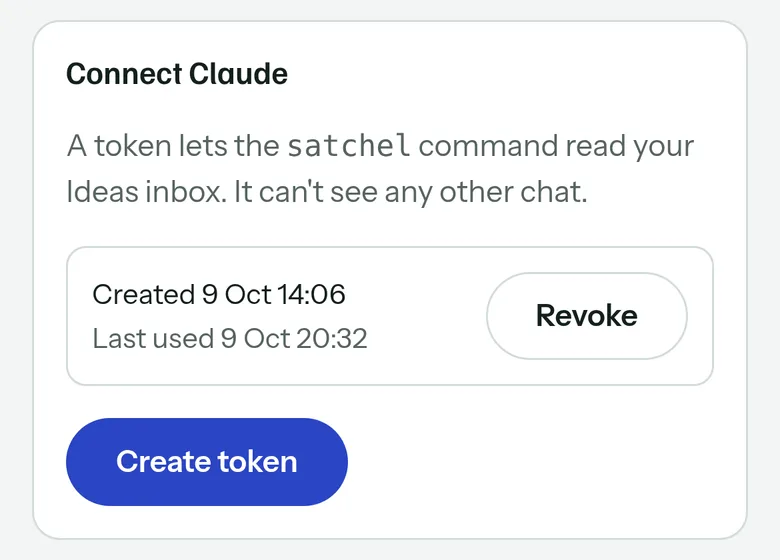
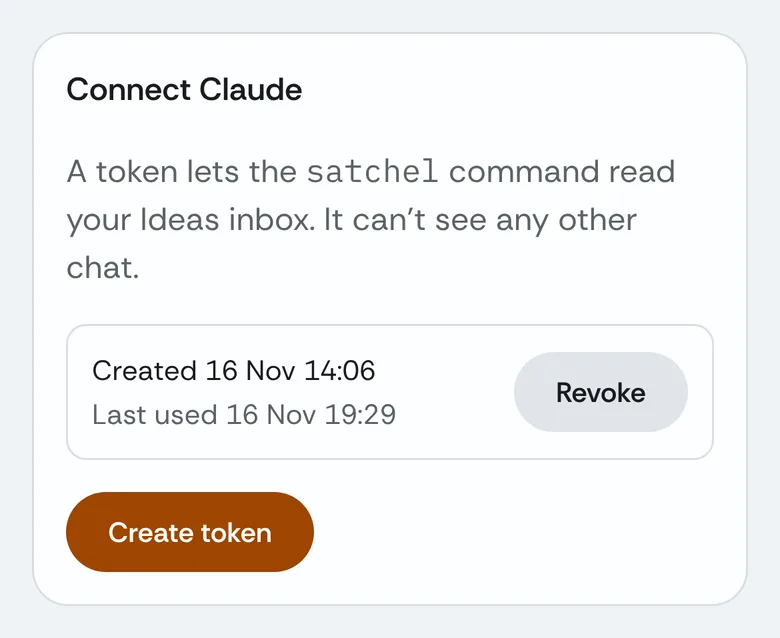
Refresh the README, docs and screenshots after the redesign
All six README images are retaken on the Clay on graphite design (they
showed the old blue one of 2026-10-09), from the demo seed with a local
owner account instead of Ward. The desktop shot is now 1440x900 @2x.

- README: "Run it locally" adds the .env step with PUBLIC_ORIGIN and the
  seed command; without them `npm run dev` stops on "PUBLIC_ORIGIN is not
  set". Status names the redesign. New alt texts, the `satchel unread`
  sample re-run, `vendor/` in the layout, a link to web/DESIGN.md.
- docs/getting-started.md: the .env step, three missing env vars
  (SATCHEL_API_PREFIX, SATCHEL_BASE, AUTH_TRUSTED_PROXIES), `npm run
  check` and the other gate commands, the Playwright specs, and how to run
  the two dev halves on other ports.
- docs/architecture.md and docs/README.md: links to the design docs.
- docs/images/shots.md: how the new images were made (Playwright, local
  account, the server clock moved to the evening), taken 2026-11-16.

Claude-Session: https://claude.ai/code/session_01RnCo6KceG18CeLXhzKq2En

diff --git a/README.md b/README.md
@@ -3,7 +3,7 @@
 Satchel is a small text messenger for its owner and a few friends. Its first chat, the Ideas inbox, is with Claude. The owner writes ideas there from a phone, and Claude Code reads them later at home through the `satchel` command.
 
 <p align="center">
-  <img src="docs/images/ideas-inbox.webp" width="300" alt="Phone screen of the Ideas inbox: five ideas in blue bubbles, the first three with double ticks and a 'Seen 21:10' line under the third, the two from today with single ticks">
+  <img src="docs/images/ideas-inbox.webp" width="300" alt="Phone screen of the Ideas inbox: five ideas in clay-coloured bubbles, the first three with double ticks and a 'Seen 21:10' line under the third, the two from today with single ticks">
 </p>
 
 At home, Claude runs the CLI and gets only what it hasn't read yet:
@@ -12,8 +12,8 @@ At home, Claude runs the CLI and gets only what it hasn't read yet:
 $ satchel unread
 Ideas inbox · 2 unread · seen up to #10
 
-#11  2026-10-09 08:31  About the backup script: compare file sizes first and only hash when two sizes match. Much faster.
-#12  2026-10-09 12:05  Small one: a "leave by" reminder that checks the tram times, not just the clock.
+#11  2026-11-16 08:31  About the backup script: compare file sizes first and only hash when two sizes match. Much faster.
+#12  2026-11-16 12:05  Small one: a "leave by" reminder that checks the tram times, not just the clock.
 
 Oldest first. Later messages can correct earlier ones. Gaps in numbers are normal.
 When you have read them all, run:  satchel seen 12
@@ -21,7 +21,7 @@ $ satchel seen 12
 Seen up to #12.
 ```
 
-**Status:** Personal project, built but not deployed yet. Built: the Ideas inbox, the `satchel` CLI, Ward sign-in, friend chats, live updates, push notifications, the Android share target and Claude's replies. Push was tried end to end in headless Chrome only; iPhone push, the share target and replies on a phone are untested.
+**Status:** Personal project, built but not deployed yet. Built: the Ideas inbox, the `satchel` CLI, local accounts with "Sign in with Ward" as an option, friend chats, live updates, push notifications, the Android share target and Claude's replies. The web app was redesigned on 2026-11-13 ("Clay on graphite"), and that is not deployed either. Push was tried end to end in headless Chrome only; iPhone push, the share target and replies on a phone are untested.
 
 ## What it does
 
@@ -38,17 +38,17 @@ A notes app would hold the ideas too. Satchel adds an exact read marker, so Clau
 
 | The chat list | A group with friends | Sending an idea |
 |---|---|---|
-| <img src="docs/images/chat-list.webp" width="250" alt="Chat list with the Ideas inbox pinned first, then Ana with two unread messages, the Weekend hike group and Theo"> | <img src="docs/images/group-chat.webp" width="250" alt="The Weekend hike group: messages from Maya, Theo and Ana, a note that Claude has no access to this chat, and 'Seen by Maya, Theo' under the last message"> | <img src="docs/images/send-and-seen.gif" width="250" alt="Typing an idea in the Ideas inbox and sending it: it gets one tick, then the Seen line moves under it once Claude marks it seen"> |
+| <img src="docs/images/chat-list.webp" width="250" alt="Chat list with the Ideas inbox pinned first, then Ana with two unread messages, the Weekend hike group and Theo"> | <img src="docs/images/group-chat.webp" width="250" alt="The Weekend hike group: messages from Maya, Theo and Ana over three days, and 'Seen by Maya, Theo' under the last message"> | <img src="docs/images/send-and-seen.gif" width="250" alt="Typing an idea in the Ideas inbox and sending it: it gets one tick, then the Seen line moves under it once Claude marks it seen"> |
 
 In the GIF, the owner sends an idea and it gets one tick. Claude then runs `satchel seen` at home, and the "Seen" line moves under the new idea without a reload.
 
 The owner creates the Claude token in Settings and can revoke it there:
 
-<img src="docs/images/connect-claude.webp" width="390" alt="The Connect Claude card: a token created on 9 Oct, when it was last used, a Revoke button and a Create token button">
+<img src="docs/images/connect-claude.webp" width="390" alt="The Connect Claude card: one token with the times it was created and last used, a Revoke button and a Create token button">
 
-On a laptop the chat list and the open chat sit side by side:
+From 900 px wide, a side rail, the chat list and the open chat sit side by side:
 
-<img src="docs/images/desktop.webp" width="100%" alt="Desktop layout: the chat list on the left, the Weekend hike group open on the right">
+<img src="docs/images/desktop.webp" width="100%" alt="Desktop layout: the side rail and the chat list on the left, the Weekend hike group open on the right under a note that Claude has no access to this chat">
 
 ## How it works
 
@@ -66,14 +66,17 @@ More in [docs/architecture.md](docs/architecture.md).
 
 ## Run it locally
 
-Requires Node 24 or later. Satchel runs on its own local accounts; make one with `npm run seed -w @satchel/server`. "Sign in with Ward" is optional: it needs the local Ward container from `wzd_auth/infrastructure/local` on <http://localhost:8792>, whose seed registers Satchel as a client and fills the five `WARD_OIDC_` values in this repo's `.env`, so copy `.env.example` to `.env` before you run it.
+Requires Node 24 or later. Satchel signs people in with its own local accounts, so nothing else has to run.
 
 ```bash
 npm install
+cp .env.example .env
+echo 'PUBLIC_ORIGIN=http://localhost:5175' >> .env
+SEED_USERNAME=owner SEED_ROLE=admin npm run seed -w @satchel/server
 npm run dev
 ```
 
-Then open <http://localhost:5175/satchel/> and sign in with your local account or with Ward. The API listens on port 8807. Env vars, tests, push and the CLI against a local server are in [docs/getting-started.md](docs/getting-started.md).
+The seed asks for a password and makes the owner's account. Then open <http://localhost:5175/satchel/> and sign in as `owner`. The API listens on port 8807. Env vars, "Sign in with Ward", tests, push and the CLI against a local server are in [docs/getting-started.md](docs/getting-started.md).
 
 ## Deploy and setup
 
@@ -92,11 +95,13 @@ Deploying is a hand-run owner step through vps-deploy. These live in [docs/owner
 | `web/` | React PWA, at the root of `satchel.<domain>` in production and under `/satchel/` in local dev |
 | `cli/` | the `satchel` command and its guide |
 | `infrastructure/` | Dockerfile and compose file for the API container |
+| `vendor/` | a generated copy of the house style (lint, format and convention rules); `npm run house-style:sync` refreshes it |
 | `corpus/` | design wiki, decisions and the numbered briefs |
 
 ## Docs
 
 - [docs/](docs/README.md): setup, architecture, the owner's steps, and the images used here
+- [web/DESIGN.md](web/DESIGN.md): the look, "Clay on graphite": tokens, layout and the checks that hold them
 - [corpus/](corpus/index.md): the project wiki, with decisions, status and the briefs
 
 ## License

diff --git a/docs/images/shots.md b/docs/images/shots.md
@@ -1,40 +1,54 @@
 # README images
 
 How each image was made, so the next refresh is a re-run. Re-take an image
-when the screen it shows changes.
+when the screen it shows changes. All of them show the "Clay on graphite"
+redesign of 2026-11-13.
 
-All of them come from a throwaway clone running `npm run dev` against a
-scratch `DATA_DIR`, signed in as the owner through the local Ward container,
-and filled by [demo-seed.mjs](demo-seed.mjs). The friends, Maya, Theo and
-Ana, are made up and never sign in, so no real account or message appears. The
-seed backdates messages relative to the day it runs, so the times and dates
-in a new capture will differ.
+All of them come from `npm run dev`'s two halves, run against a scratch
+`DATA_DIR` on spare ports, signed in as a local `owner` account made with
+`npm run seed -w @satchel/server` (password from a random env var), and
+filled by [demo-seed.mjs](demo-seed.mjs). No Ward runs. The friends, Maya,
+Theo and Ana, are made up and never sign in, so no real account or message
+appears. The seed backdates messages relative to the day it runs, so the
+dates in a new capture will differ.
+
+The seed's messages for today run until 14:06. Capture in the evening, or the
+GIF's new idea gets an earlier time than the ideas above it. On 2026-11-16
+the shots were taken in the morning, so the API ran with its clock moved to
+19:28 local time by a scratch `node --import` file that offsets `Date` (passed
+through `NODE_OPTIONS`; it is not in the repo). The browser and the CLI ran
+on the real clock.
 
 | File | Shows | How to reach that state | Viewport | Taken |
 |---|---|---|---|---|
-| ideas-inbox.webp | Ideas inbox, three ideas seen by Claude and two not | Fresh seed, open "Claude · Ideas inbox" | iPhone 14, 390×844 @3x, scaled to 780 px wide | 2026-10-09 |
-| chat-list.webp | Chat list: inbox pinned, an unread badge, a group, a seen direct chat | Fresh seed, `/satchel/` | iPhone 14, scaled to 780 px | 2026-10-09 |
-| group-chat.webp | The Weekend hike group with "Seen by Maya, Theo" | Fresh seed, open "Weekend hike" | iPhone 14, scaled to 780 px | 2026-10-09 |
-| send-and-seen.gif | Sending an idea, then "Seen" moving under it | After `satchel seen` on the seeded unread ideas, open the inbox, record, type and send, then run `satchel unread` and `satchel seen N` from the CLI | iPhone 14, 390 px GIF, 9.5 s | 2026-10-09 |
-| connect-claude.webp | The Connect Claude card with one token | `/satchel/settings` after the CLI has used the seeded token; cropped to the card | iPhone 14, card only, 780 px | 2026-10-09 |
-| desktop.webp | Two-pane layout with the Weekend hike group open | Fresh seed, open "Weekend hike" | 1280×800 @2x, scaled to 1600 px | 2026-10-09 |
+| ideas-inbox.webp | Ideas inbox, three ideas seen by Claude and two not | Fresh seed, open "Claude · Ideas inbox" | iPhone 14 at its full 390×844 screen, @3x, scaled to 780 px wide | 2026-11-16 |
+| chat-list.webp | Chat list: inbox pinned, an unread badge, a group, a seen direct chat | Fresh seed, `/satchel/` | same | 2026-11-16 |
+| group-chat.webp | The Weekend hike group with "Seen by Maya, Theo" | Fresh seed, open "Weekend hike" | same | 2026-11-16 |
+| desktop.webp | Rail, chat list and the Weekend hike group open | Fresh seed, open "Weekend hike" | 1440×900 @2x, 2880 px wide | 2026-11-16 |
+| send-and-seen.gif | Sending an idea, then "Seen" moving under it | After `satchel seen 12`, open the inbox, type and send "Idea: a shared packing list for the hike group.", then run `satchel unread` and `satchel seen 16` from the CLI | iPhone 14, 390 px GIF, 9.2 s | 2026-11-16 |
+| connect-claude.webp | The Connect Claude card with one token | `/satchel/settings` after the CLI has used the seeded token; clipped to the card plus 16 px | iPhone 14, card only, 780 px | 2026-11-16 |
 
 The `satchel unread` output in the README is real output from the same
 seeded database, taken before the GIF was recorded.
 
 ## Capture method
 
-- Browser: `agent-browser`, `set device "iPhone 14"` for phone shots and
-  `set viewport 1280 800 2` for the desktop one, then `screenshot` with an
-  absolute path.
+- Browser: Playwright's Chromium from a scratch script,
+  `devices['iPhone 14']` with the viewport set to the full 390×844 screen
+  (the installed PWA has no browser bar), time zone Europe/Bucharest,
+  locale en-GB, default (light) theme. Each shot waits for network idle and
+  1.5 s more. Sign in once through the form and reuse the storage state.
 - CLI: built `cli/dist/index.js` run by path with `SATCHEL_URL` set to the
-  local API and the seeded token in `SATCHEL_TOKEN`, and `HOME` pointed at
-  an empty folder so a real `~/.config/satchel/env` is never read.
+  local API, the seeded token in `SATCHEL_TOKEN`, `TZ=Europe/Bucharest`, and
+  `HOME` pointed at an empty folder so a real `~/.config/satchel/env` is
+  never read.
 - Stills: PNG to WebP with
-  `ffmpeg -i in.png -vf scale=780:-1 -c:v libwebp -quality 82 out.webp`.
-- GIF: `record start` / `record stop` gives a WebM that only holds frames
-  where the screen changed. The GIF is built from its extracted frames, re-timed with
-  ffmpeg's concat demuxer: 1.5 s at the start, the typing, 2 s after Send and
-  3 s on "Seen". Then a two-pass palette at 10 fps and 390 px wide.
+  `ffmpeg -i in.png -vf scale=780:-1 -c:v libwebp -quality 82 out.webp`
+  (the desktop one without the scale).
+- GIF: one screenshot per step (the open inbox, the focused composer, seven
+  stages of typing, the sent idea with one tick, then "Seen" after the CLI
+  ran), joined with ffmpeg's concat demuxer: 1.5 s at the start, 0.25 s per
+  typing frame, 2 s after Send and 3 s on "Seen". Then a two-pass palette at
+  10 fps and 390 px wide.
 - Never capture Connect Claude right after "Create token": that screen shows
   the token in full.

diff --git a/docs/getting-started.md b/docs/getting-started.md
@@ -21,15 +21,27 @@ npm install
 
 ## Configure
 
-Copy `.env.example` to `.env`, which git ignores. The server reads it at
-start-up. The Vite dev server reads it too, for the API port.
+Copy `.env.example` to `.env`, which git ignores, and give it the dev
+server's origin. The server reads `.env` at start-up and refuses to start
+without `PUBLIC_ORIGIN` unless Ward is set up. The Vite dev server reads it
+too, for the API port.
+
+```bash
+cp .env.example .env
+echo 'PUBLIC_ORIGIN=http://localhost:5175' >> .env
+```
+
+`.env.example` has an empty `PUBLIC_ORIGIN=` line; the last value in the
+file wins, so the appended line is the one used.
 
 | Variable | Purpose | Where the value comes from |
 |---|---|---|
 | `HOST` | Address the API binds to | `127.0.0.1` |
 | `PORT` | API port; the dev proxy follows it | `8807` |
 | `DATA_DIR` | Folder for `satchel.db`. A relative path is taken from the repo root | `./data` |
-| `PUBLIC_ORIGIN` | Satchel's own origin as the browser sees it. Optional when `WARD_OIDC_REDIRECT_URI` is set (its origin is used) | `http://localhost:5175` |
+| `PUBLIC_ORIGIN` | Satchel's own origin as the browser sees it. Required, unless `WARD_OIDC_REDIRECT_URI` is set (its origin is used) | `http://localhost:5175` |
+| `SATCHEL_API_PREFIX`, `SATCHEL_BASE` | Optional. The API prefix and the web app's base path as the browser sees them | Defaults `/satchel-api` and `/satchel/`; the deploy serves the web app at `/` |
+| `AUTH_TRUSTED_PROXIES` | Optional. Proxies whose `X-Forwarded-For` the server believes, besides loopback | Empty locally; the deploy sets it |
 | `WARD_OIDC_ISSUER`, `WARD_OIDC_CLIENT_ID`, `WARD_OIDC_CLIENT_KEY`, `WARD_OIDC_REDIRECT_URI`, `WARD_OIDC_POST_LOGOUT_REDIRECT_URI` | Optional. "Sign in with Ward". The key is a secret | Ward's local seed |
 | `VAPID_PUBLIC_KEY`, `VAPID_PRIVATE_KEY`, `VAPID_SUBJECT` | Optional. Push notifications; without all three, push is off | [owner-setup.md](owner-setup.md#push-notifications) |
 
@@ -88,11 +100,29 @@ described in [corpus/wiki/claude-access.md](../corpus/wiki/claude-access.md).
 ## Test, typecheck, lint, build
 
 ```bash
-npm test            # vitest, every workspace
-npm run typecheck
+npm run check       # the whole gate: typecheck, lint, format check, conventions, tests
+npm test            # vitest, every workspace; pretest runs `tsc -b` first
+npx vitest run <file>
+npm run typecheck   # tsc -b, then tsc -p web --noEmit
 npm run lint
+npm run format      # Prettier writes every file it covers; Markdown stays out
 npm run build       # tsc for shared, server and cli, then the web app
 ```
+
+`npm run check:conventions` is the part of the gate that runs knip,
+dependency-cruiser and the two house-style checkers from `vendor/house-style/`.
+
+The web app also has Playwright specs in `web/e2e/` (focus rings, reduced
+motion, the 390 px layout, the 900 px switch, the theme). They answer the API
+from stubs, so no server or Ward runs, and they start their own Vite server on
+port 5190:
+
+```bash
+npm run test:e2e -w @satchel/web
+```
+
+They need Playwright's Chromium (`npx playwright install chromium`) or
+`CHROME` set to an installed Chrome.
 
 ## Run the API container
 
@@ -113,7 +143,10 @@ for the built app and `vite preview` on port 4175 are in
   `WARD_OIDC_` key.** Set `PUBLIC_ORIGIN`, or run Ward's local seed; it writes the
   values into `.env`.
 - **Port 5175 is in use.** The dev server won't pick another port. Stop
-  whatever holds it.
+  whatever holds it, or run the two halves yourself on other ports:
+  `npx tsc -b shared`, then `PORT=<api> PUBLIC_ORIGIN=http://localhost:<web> npm run dev -w @satchel/server`
+  and `PORT=<api> npm run dev -w @satchel/web -- --port <web>`. The web half
+  reads `PORT` to find the API.
 - **"Ward didn't let you in here" after Sign in with Ward.** The Ward account
   has no grant on `satchel`. Grant one in the local Ward console.
 - **Sign in with Ward is missing from the login page.** `WARD_OIDC_ISSUER` is

diff --git a/docs/architecture.md b/docs/architecture.md
@@ -75,6 +75,9 @@ them stays unread for next time instead of being skipped.
   the token and the guide
 - [corpus/wiki/decisions.md](../corpus/wiki/decisions.md): what was decided
   and what was rejected
+- [web/DESIGN.md](../web/DESIGN.md) and
+  [corpus/wiki/design.md](../corpus/wiki/design.md): how the web app looks
+  ("Clay on graphite", 2026-11-13) and behaves
 - Code: [server/src/db/store.ts](../server/src/db/store.ts),
   [server/src/plugins/auth/guard.ts](../server/src/plugins/auth/guard.ts),
   [server/src/features/](../server/src/features/),

diff --git a/docs/README.md b/docs/README.md
@@ -14,3 +14,4 @@ Going deeper:
 - Project wiki: [corpus/](../corpus/index.md), with decisions, status, the
   design and the numbered briefs
 - The guide Claude follows: [cli/src/guide.md](../cli/src/guide.md)
+- The web app's design system: [web/DESIGN.md](../web/DESIGN.md)
